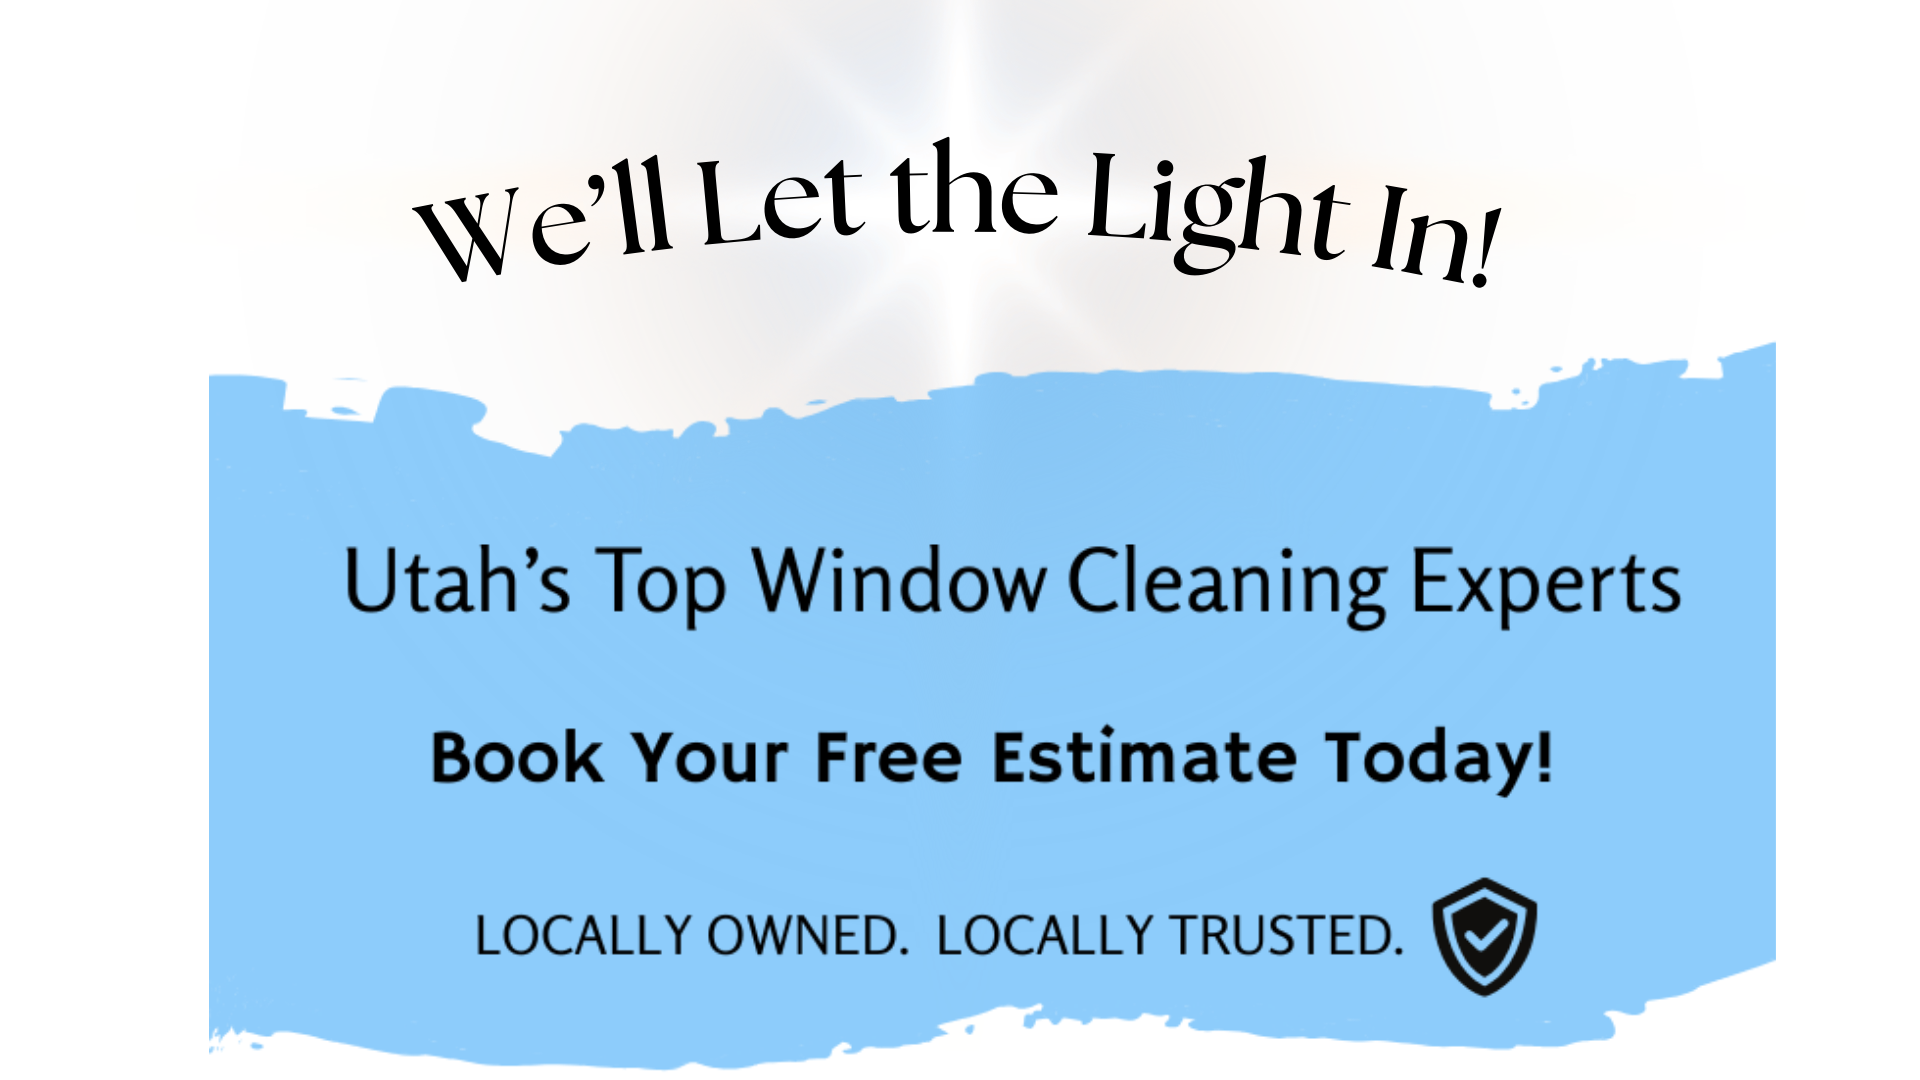
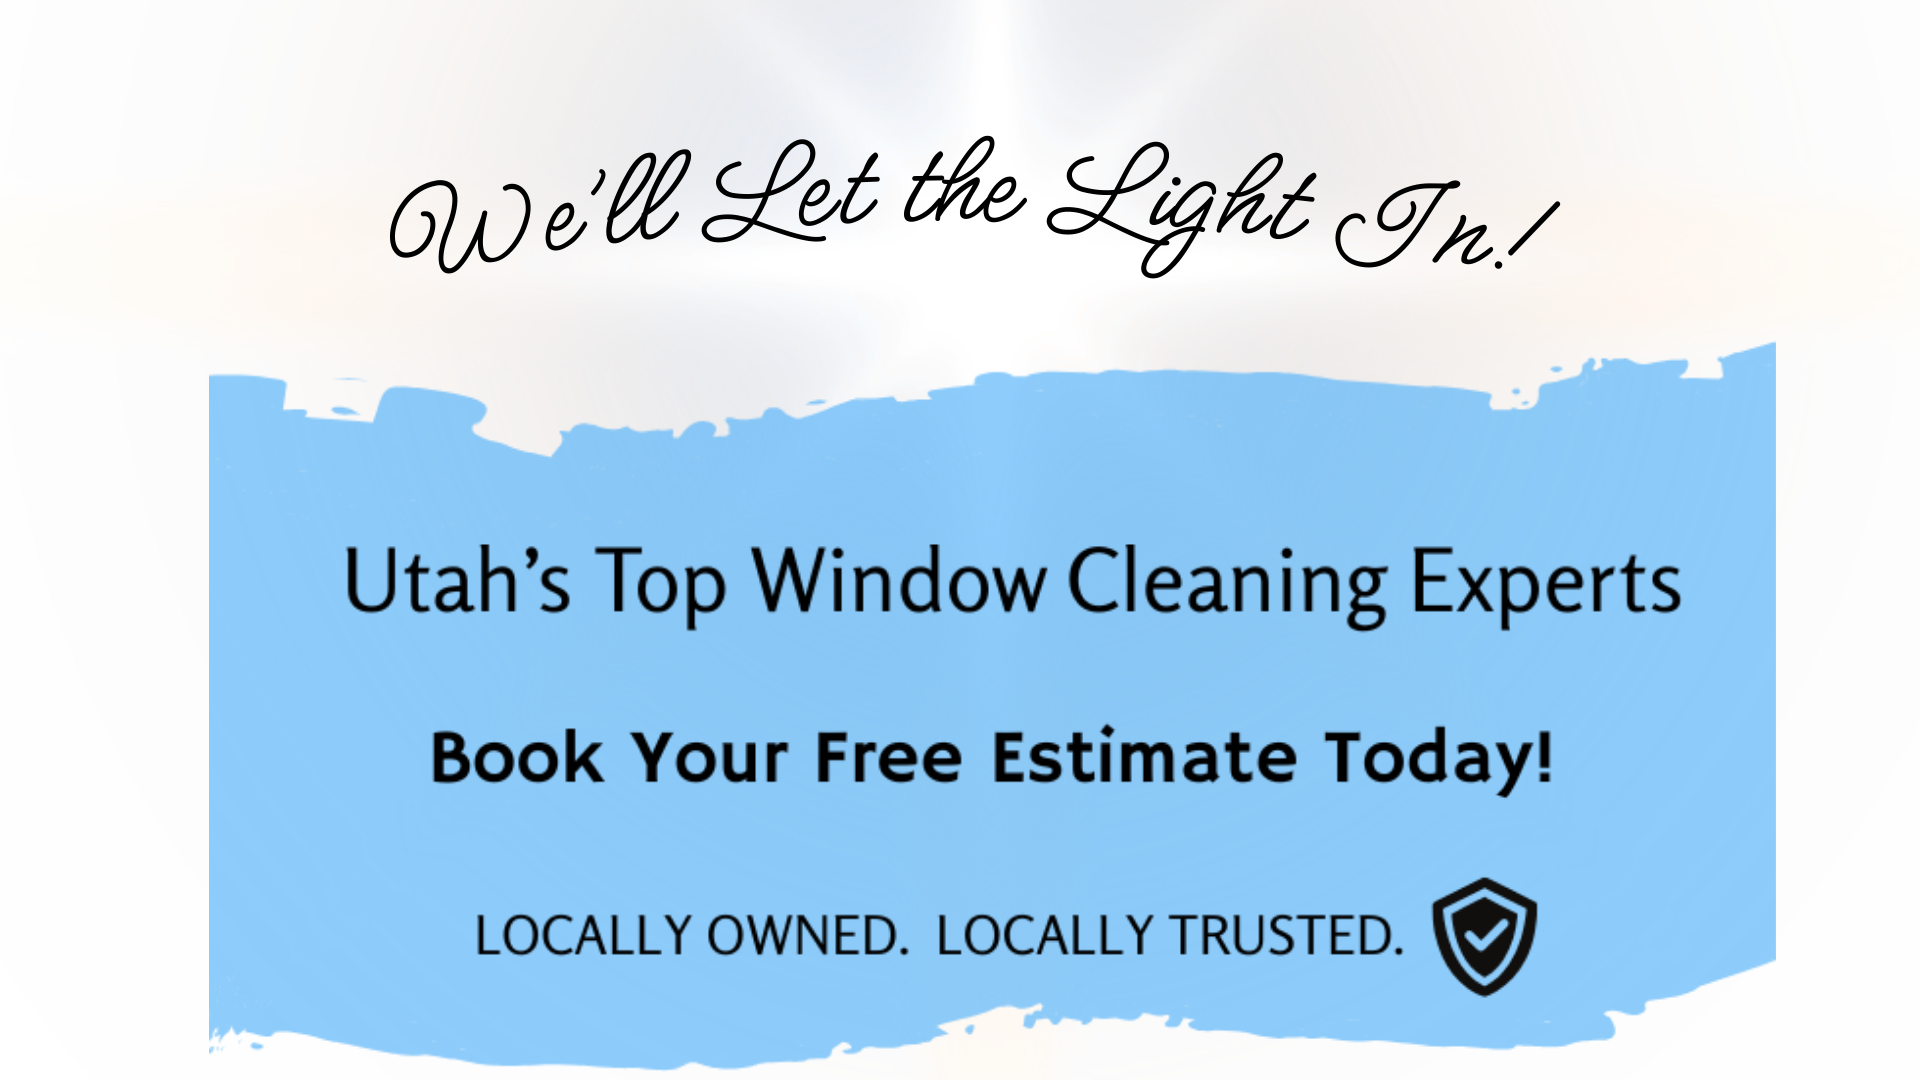
Youtube video added

Changed region(s): [[0.1875, 0.1222, 0.8125, 0.275]]

diff --git a/src/index.css b/src/index.css
@@ -2,10 +2,12 @@
 @import url('https://fonts.googleapis.com/css2?family=Poppins:wght@400;600&family=Montserrat:wght@400;600&display=swap');
 @import url('https://fonts.googleapis.com/css2?family=Inter:wght@400;600;700&display=swap');
 @import url('https://fonts.googleapis.com/css2?family=Manrope:wght@200..800&family=Montserrat:ital,wght@0,100..900;1,100..900&family=Ovo&display=swap');
+@import url('https://fonts.googleapis.com/css2?family=Meow+Script&display=swap');
+
 /* Apply global fonts */
 body {
   font-family: 'Poppins', sans-serif;
-  background-color: #f5fafe; /* Light background */
+  background-color: #dbe9f4; /* Light background */
   color: #333;
 }
 
@@ -32,7 +34,7 @@ p, input, textarea {
 
 /* Header Styling */
 .header {
-  background: linear-gradient(to right, white 40%, #d9d9d9 100%);
+  background: linear-gradient(to right, white 40%, #dbe9f4 100%);
   color: #323131;
   padding: 15px 15px;
   display: flex;
@@ -63,6 +65,7 @@ p, input, textarea {
   height: 3;
   margin-left: -35px; 
   margin-bottom: 4px;
+  margin-top: 5px;
 
 }
 
@@ -92,7 +95,7 @@ p, input, textarea {
   font-weight: 600;
   font-size: 1rem;
   text-transform: uppercase;
-  color:   #545454;
+  color:   black;
   padding: 10px 0;
   display: block; 
   transition: color 0.3s;
@@ -102,44 +105,40 @@ p, input, textarea {
   color: #545454;
 }
 
-/* Mobile Menu Button */
+
 /* Mobile Menu Button */
 .menu-toggle {
   all: unset; /* Resets all inherited styles */
   display: block;
-  font-size: 2rem;
-  color: #1e3a8a; /* Sets the icon color to blue */
+  font-size: 2.5rem;
+  color: black; /* Sets the icon color to blue */
   cursor: pointer; /* Changes cursor to pointer to indicate it's clickable */
 }
 
 
-
-/*  Default Phone Number Styling */
 .phone-number {
-  background: white;
-  color: black;
-  font-weight: bold;
-  font-family: 'Montserrat', sans-serif;
-  padding: 5px 15px;
-  border-radius: 4px;
-  text-align: center;
   display: flex;
-  box-shadow: 2px 4px 12px rgba(0, 0, 0, 0.1);
-  align-items: center;
-  justify-content: right;
-  order: 0;
-  margin-right: 10px;
-  margin-left: auto;
+  flex-direction: column;
+  align-items: center;       /* Center text within */
+  justify-content: center;
+  border-radius: 4px;
+  padding: 5px 20px;
+  margin-left: auto;         /* ✅ Push it to the right */
+  margin-right: 12px;
+  margin-top: 10px;
 }
 
 
-
-/*  Remove Underline */
 .phone-number a {
+  font-size: .85rem;
+  font-weight: 500;
   text-decoration: none;
-  color: #1e3a8a;
-  font-size: .9rem;
+  color: black;
+  font-family: 'Montserrat', sans-serif; /* ✅ Switched to Montserrat */
+  text-transform: uppercase; /* Or whatever you want here */
 }
+
+
 
 .hero {
   width: 100%;
@@ -157,14 +156,16 @@ p, input, textarea {
   display: flex;
   flex-direction: column;
   align-items: center;
-  justify-content: space-between; /* More flexibility */
+  justify-content: space-between;
   height: 100%;
-  padding-top: 60px;
-  padding-bottom: 60px;
+  padding-top: 10px;
+  padding-bottom: 60px; /* Already here, good! */
   gap: 20px;
   text-align: center;
   z-index: 10;
 }
+
+
 
 
 .hero-tagline {
@@ -186,23 +187,6 @@ p, input, textarea {
   z-index: 1;
 }
 
-
-/* Call-to-Action Button */
-button {
-  background-color: #1e3a8a;
-  color: #1e3a8a;
-  padding: 12px 5px;
-  font-size: 1rem;
-  border: none;
-  border-radius: 5px;
-  cursor: pointer;
-  transition: 0.3s;
-}
-
-button:hover {
-  background-color: white;
-  color: #0057B7;
-}
 
 
 .card:hover {
@@ -291,7 +275,7 @@ button:hover {
 
 
 .top-bar {
-  background-color: #d1e9ff; /* light blue */
+  background-color: #dbe9f4;/* light blue */
   color: #1e3a8a;            /* dark blue text */
   font-size: 1.2rem;
   padding: 6px 0;
@@ -309,42 +293,86 @@ button:hover {
 }
 .hero-button {
   margin-top: 30px;
-  margin-bottom: 150px;
-  background-color: white;
+  margin-bottom: 200px;
+  background-color: #f5fafe;
   color: black;
   font-size: 1.3rem;
-  padding: 20px 40px;
-  border: none;
+  padding: 14px 30px;
+  border: 1px solid #444;
   border-radius: 6px;
   cursor: pointer;
   transition: background-color 0.3s ease;
 }
-
+.freequote-button {
+  margin-top: 30px;
+  margin-bottom: 200px;
+  background-color: #f5fafe;
+  color: black;
+  font-size: 1.3rem;
+  padding: 14px 30px;
+  border: 1px solid #444;
+  border-radius: 6px;
+  cursor: pointer;
+  transition: background-color 0.3s ease;
+}
 .hero-button:hover {
   background-color: white;
 }
 
-
-/* Media query for screens wider than 320px */
-@media (max-width: 340px) {
-  .phone-number {
-    display: none; /* Show phone number */
-  }
+#services {
+  scroll-margin-top: 120px;
 }
 
-@media (max-width: 650px) {
-  .top-bar {
-    font-size: .7rem;
-  }
+.services-header {
+  padding-top: 40px;
+  scroll-margin-top: 120px;
+  background-color: #dbe9f4;
+  text-align: center;
+  padding-bottom: 2rem; /* equivalent to Tailwind’s pb-8 */
 }
+
+.services-title {
+  font-size: 2rem; /* Equivalent to Tailwind's text-2xl */
+  font-weight: 700; /* Bold */
+  color: #000;      /* Black */
+  font-family: 'Montserrat', sans-serif; /* ✅ Switched to Montserrat */
+  text-transform: uppercase; /* ✅ All caps */
+}
+
+.social-icons {
+  display: flex;
+  align-items: center;
+  gap: 10px;
+  margin-left: 65px;
+}
+
+.social-icon {
+  width: 44px;
+  height: 44px;
+  object-fit: contain;
+  cursor: pointer;
+  transition: transform 0.2s ease;
+}
+
+.social-icon:hover {
+  transform: scale(1.1);
+}
+
+
+
 
 /* Desktops */
 @media (min-width: 1024px) {
   .header-container {
     padding: 0 40px; /* Adds space on larger screens */
   }
-  .header .phone-number {
-    font-size: 1.7rem;
+  .phone-number a {
+    font-family: 'Montserrat', sans-serif; /* ✅ Switched to Montserrat */
+    text-transform: uppercase; 
+    text-decoration: none;
+    color: black;
+    font-size: 1rem;
+    margin-bottom: 10px;
   }
 
   .hero {
@@ -373,7 +401,7 @@ button:hover {
   
   .nav a {
     font-size: .9rem;
-    color: #1e3a8a;
+    color: black;
     margin: 0; 
     padding: 5px 10px; 
     text-decoration: none;
@@ -450,5 +478,18 @@ button:hover {
 @media (min-width: 768px) {
   .hero {
     height: 1000px; /* More room to show everything */
+  }
+}
+
+/* Media query for screens wider than 320px */
+@media (max-width: 340px) {
+  .phone-number {
+    display: none; /* Show phone number */
+  }
+}
+
+@media (max-width: 680px) {
+  .top-bar {
+    font-size: .7rem;
   }
 }

diff --git a/src/components/Header.js b/src/components/Header.js
@@ -20,7 +20,7 @@ const Header = () => {
     <>
       {/* ✅ Top Bar Section */}
       <div className="top-bar">
-        <p>📍 Serving Utah County — Professional Window & Exterior Cleaning</p>
+        <p>📍 Serving Utah, Salt Lake & Wasatch County — High Quality Window Cleaning</p>
       </div>
 
       {/* ✅ Main Header */}
@@ -28,9 +28,13 @@ const Header = () => {
         <div className="header-container">
           <img src="/logo1.png" alt="Outshine Window Cleaning" className="logo" />
 
+
+
+
           <div className="phone-number">
             <a href="tel:8016618232">(801) 661-8232</a>
           </div>
+
 
           <button 
             className="menu-toggle" 
@@ -40,7 +44,20 @@ const Header = () => {
           </button>
 
           <nav ref={menuRef} className={`nav ${menuOpen ? "active" : ""}`}>
-            <a href="#services" onClick={() => setMenuOpen(false)}>Services</a>
+          <a
+                href="#"
+                onClick={(e) => {
+                  e.preventDefault();
+                  const section = document.getElementById("services");
+                  if (section) {
+                    section.scrollIntoView({ behavior: "smooth" });
+                    setMenuOpen(false); // close mobile nav if open
+                  }
+                }}
+              >
+                Services
+              </a>
+
             <a href="#reviews" onClick={() => setMenuOpen(false)}>Reviews</a>
             <a href="#contact" onClick={() => setMenuOpen(false)}>Contact</a>
           </nav>

diff --git a/src/App.js b/src/App.js
@@ -12,16 +12,25 @@ function App() {
       <Header />
       <Hero />
 
-      {/* Our Services Header */}
-      <section style={{ paddingTop: "40px" }} className="pb-8 bg-white text-center">
-        <h2 className="!text-6xl font-bold text-black">Our Services</h2>
+{/* Our Services Header */}
+      <section id="services" className="services-header">
+        <h2 className="services-title">Our Services</h2>
       </section>
+
 
       <CardSlider />
 
+      <div className="w-full flex justify-center my-8 px-4">
+      <iframe width="560" height="315" src="https://www.youtube.com/embed/mMh0BPsMjuA?si=k7_tUCsRJkgVtcX6" 
+      title="YouTube video player" frameborder="0" allow="accelerometer;
+       autoplay; clipboard-write; encrypted-media; gyroscope; picture-in-picture;
+        web-share" referrerpolicy="strict-origin-when-cross-origin" 
+        allowfullscreen></iframe>
+    </div>
+
       {/* 👇 Contact Form Section */}
       <section id="contact" style={{ padding: "80px 20px", backgroundColor: "#f5fafe" }}>
-        <h2 className="text-4xl text-center font-bold mb-8">Contact Us</h2>
+        <h2 className="text-4xl text-center font-bold mb-8">CONTACT US</h2>
         <ContactForm />
       </section>
 

diff --git a/src/components/Hero.js b/src/components/Hero.js
@@ -41,7 +41,7 @@ const Hero = () => {
       <img src="/tagline.png" alt="Tagline" className="hero-tagline" />
         {/* ✅ Call-to-Action Button */}
         <button
-        className="hero-button"
+        className="freequote-button"
         onClick={() => {
           const contactSection = document.getElementById("contact");
           if (contactSection) {
@@ -49,7 +49,7 @@ const Hero = () => {
           }
         }}
       >
-        Get a Free Quote
+        Free Quote!
       </button>
 
           </div>
